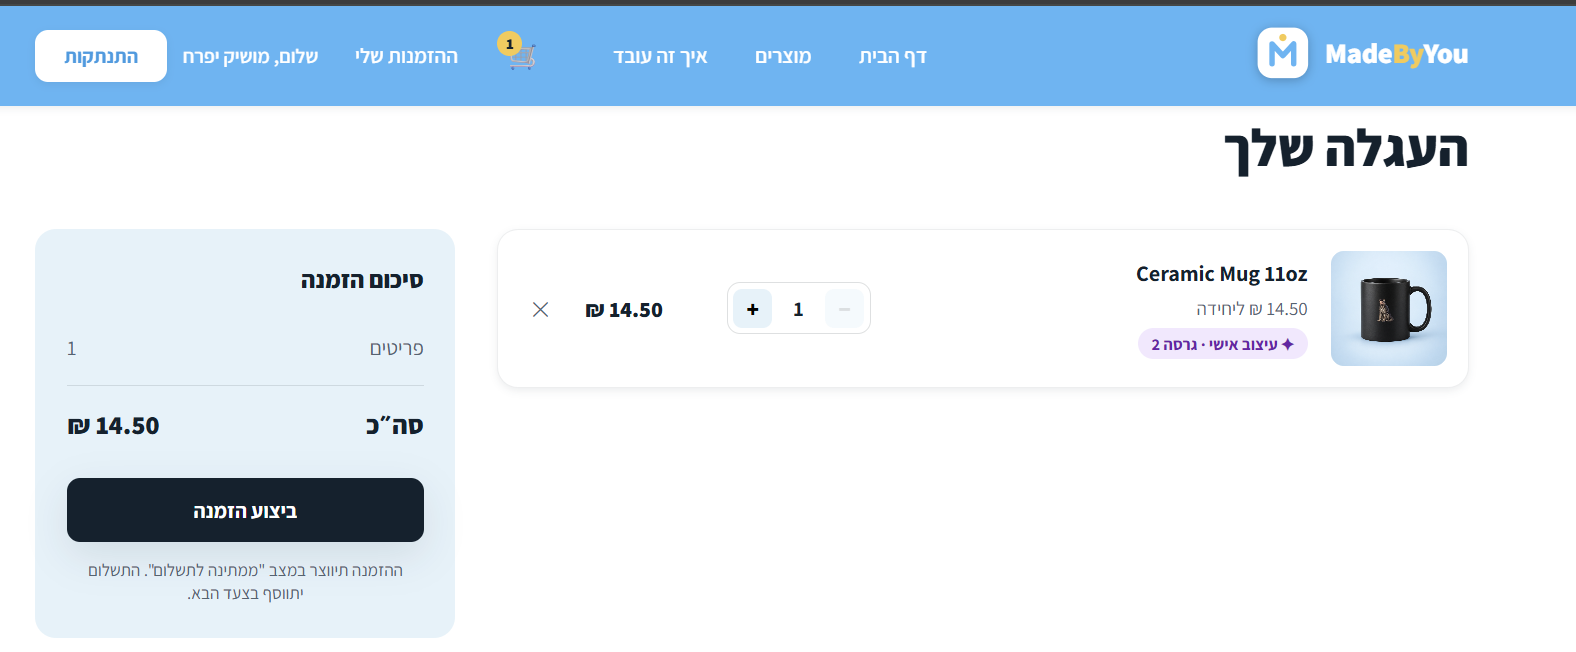
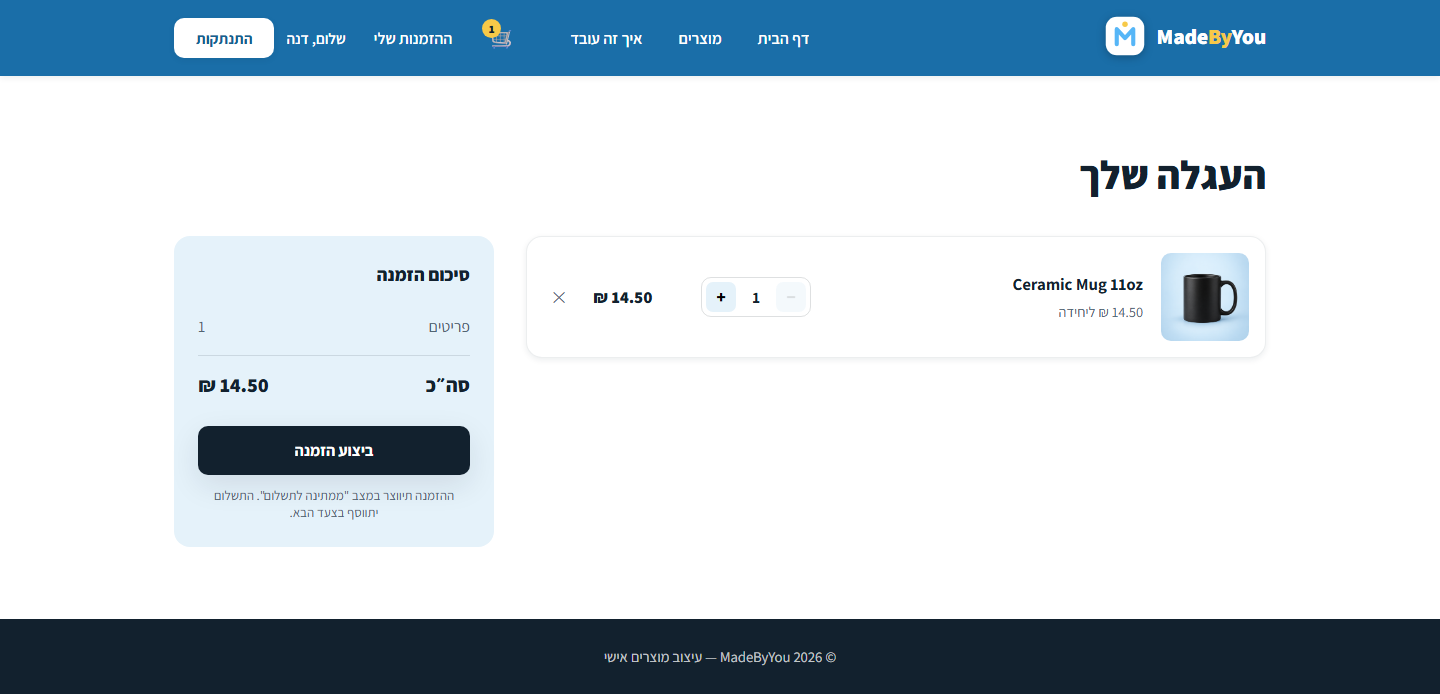
docs: refresh the screenshots for the new palette

diff --git a/apps/web/e2e/screenshots.spec.ts b/apps/web/e2e/screenshots.spec.ts
@@ -1,0 +1,65 @@
+import { expect, test } from '@playwright/test';
+import { CartPage } from './pages/CartPage';
+import { CatalogPage } from './pages/CatalogPage';
+import { LoginPage } from './pages/LoginPage';
+import { Navbar } from './pages/Navbar';
+import { ProductPage } from './pages/ProductPage';
+
+/**
+ * Not a test: this regenerates the images the README links to, so they stay in
+ * step with the design tokens. Run it deliberately:
+ *
+ *   SCREENSHOTS=1 npx playwright test screenshots.spec --project=chromium
+ */
+test.describe('README screenshots', () => {
+  test.skip(
+    !process.env.SCREENSHOTS,
+    'Set SCREENSHOTS=1 to refresh docs/screenshots.',
+  );
+
+  test.use({ viewport: { width: 1440, height: 900 } });
+
+  test('catalog', async ({ page }) => {
+    const catalogPage = new CatalogPage(page);
+
+    await catalogPage.goto();
+    await expect(catalogPage.productCards.first()).toBeVisible();
+
+    // The README labels this "Catalog", so show the products rather than the
+    // hero that sits above them.
+    await catalogPage.productCards.first().scrollIntoViewIfNeeded();
+
+    // Viewport only, not fullPage: the README puts this beside a landscape
+    // shot, and a 1900px-tall image next to it looks broken.
+    await page.screenshot({ path: '../../docs/screenshots/catalog.png' });
+  });
+
+  test('cart', async ({ page, request }) => {
+    // A named account, so the navbar greets "שלום, דנה" rather than showing a
+    // generated test address in a picture people will look at.
+    const email = `demo-${Date.now()}@example.com`;
+    await request.post('/api/auth/register', {
+      data: { email, password: 'Password123', name: 'דנה' },
+    });
+
+    const loginPage = new LoginPage(page);
+    await loginPage.goto();
+    await loginPage.signIn(email, 'Password123');
+    // Wait for the session to land: the product page bounces to /login if it
+    // still thinks nobody is signed in.
+    await expect(new Navbar(page).greeting).toBeVisible();
+
+    const catalogPage = new CatalogPage(page);
+    const productPage = new ProductPage(page);
+    const cartPage = new CartPage(page);
+
+    await catalogPage.goto();
+    await catalogPage.openFirstProduct();
+    await productPage.addToCart();
+    await expect(cartPage.increaseQuantity).toBeVisible();
+
+    // Trim the viewport to the content so the image has no dead space below.
+    await page.setViewportSize({ width: 1440, height: 700 });
+    await page.screenshot({ path: '../../docs/screenshots/cart.png' });
+  });
+});
